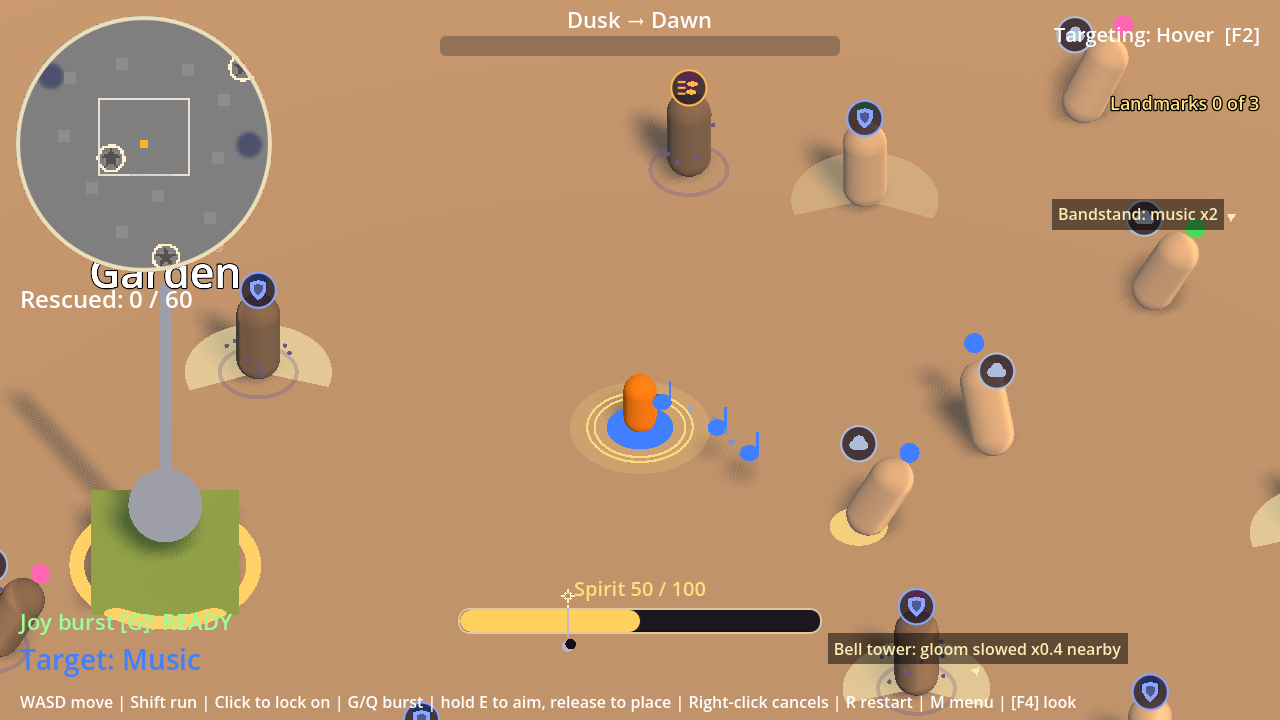
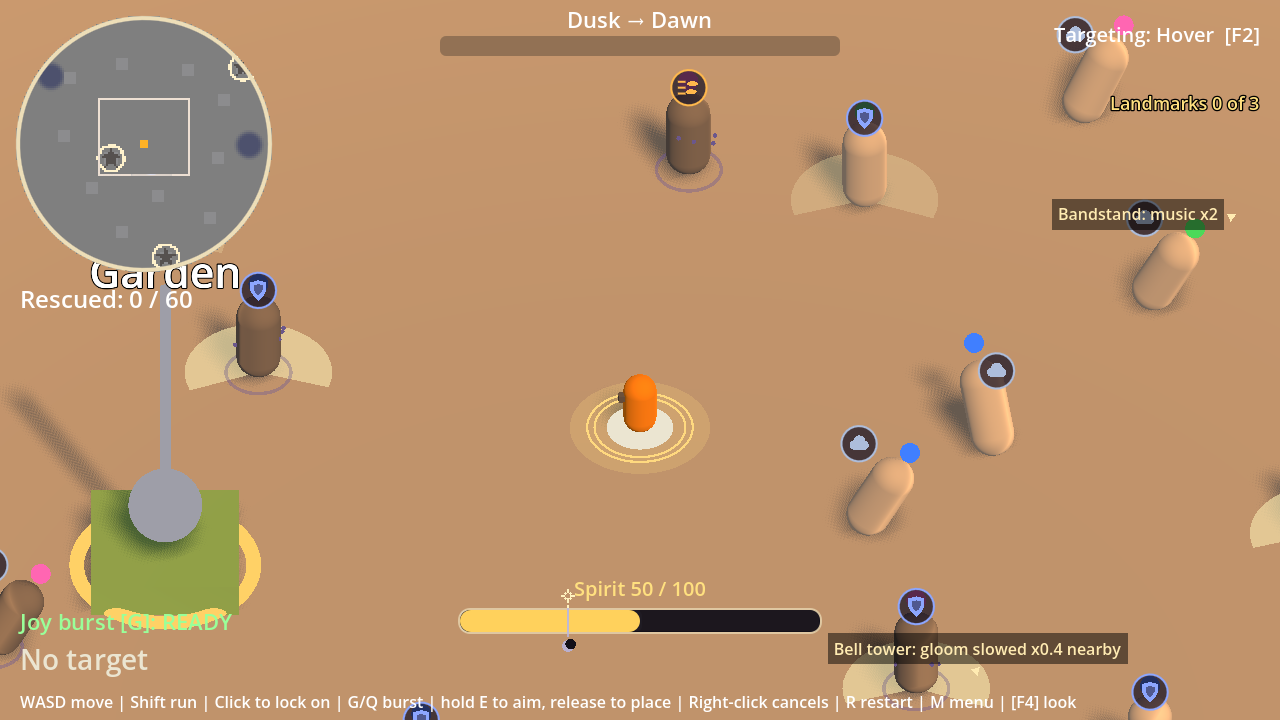
0.3.1 fix pass: mist seams (integer hash noise), bolder storm cloud, props and bunting in play view
Refs #40 Refs #41 Refs #42

diff --git a/tools/checkpoint_shots.py b/tools/checkpoint_shots.py
@@ -70,7 +70,8 @@ VIEWS_R24 = ["fight_strain", "fight_gap_closeup", "fight_strain_closeup", "fight
              "walk_grey", "walk_joy", "walk_dimmed", "walk_player", "run_player", "walk_crowd"]
 # Graphics checkpoint 7 (--set checkpoint7): calm opening, mid-night inside and outside the zone, a push, dawn.
 # 0.3.1 adds the play-zoom views (full frame at zoom 19.5): calm opening, mid-night inside and outside the zone, a push.
-VIEWS_PLAY = ["play_calm_opening", "play_midnight_inside_zone", "play_midnight_outside_zone", "play_push_in_progress"]
+VIEWS_PLAY = ["play_calm_opening", "play_midnight_inside_zone", "play_midnight_outside_zone", "play_push_in_progress",
+              "play_props_bunting"]
 VIEWS_C7 = (["calm_opening", "midnight_inside_zone", "midnight_outside_zone", "push_in_progress", "push_closeup"]
             + VIEWS_PLAY + ["dawn"])
 EXPECTED_C7 = (["contact_sheet.png", "contact_sheet_compare.png", "play_sheet.png"]

diff --git a/SOURCE_MAP.md b/SOURCE_MAP.md
@@ -170,13 +170,13 @@ extends Node3D | 1 const | Round 22: the world marks for the burst (G/Q), drawn 
 - L88 `streak_count() -> int`
 
 ### scripts/config.gd (Config)
-extends ConfigBase | 376 const | Round 19 onward: tuning values and the tiny pure helpers. Older constants live in config_base.gd (ConfigBas...
-- L634 `static intro_on() -> bool` - True when the layered introduction (round 13b) is on: always in the game, never under automated tests, unle...
-- L642 `static tides_on() -> bool` - Round 25: the gloom tides run in the game and not under automated tests (like the intro), so the older scen...
-- L649 `static multiplier(element: int, affinity: int) -> float` - Returns how much a hit with `element` is multiplied when the person has `affinity`.
-- L658 `static falloff(distance: float) -> float` - Returns the strength of a hit at `distance` metres: 1.0 up close, falling to FALLOFF_MIN far away.
-- L668 `static gloom_level(g: float) -> int` - Returns the visible grey level (0 light, 1 grey, 2 dimmed) for a hidden gloom value.
-- L679 `static is_automated_test() -> bool` - True when the game is running under the automated tests (tools/run_tests.py): the POSITIVEFPS_TEST=1 enviro...
+extends ConfigBase | 377 const | Round 19 onward: tuning values and the tiny pure helpers. Older constants live in config_base.gd (ConfigBas...
+- L635 `static intro_on() -> bool` - True when the layered introduction (round 13b) is on: always in the game, never under automated tests, unle...
+- L643 `static tides_on() -> bool` - Round 25: the gloom tides run in the game and not under automated tests (like the intro), so the older scen...
+- L650 `static multiplier(element: int, affinity: int) -> float` - Returns how much a hit with `element` is multiplied when the person has `affinity`.
+- L659 `static falloff(distance: float) -> float` - Returns the strength of a hit at `distance` metres: 1.0 up close, falling to FALLOFF_MIN far away.
+- L669 `static gloom_level(g: float) -> int` - Returns the visible grey level (0 light, 1 grey, 2 dimmed) for a hidden gloom value.
+- L680 `static is_automated_test() -> bool` - True when the game is running under the automated tests (tools/run_tests.py): the POSITIVEFPS_TEST=1 enviro...
 
 ### scripts/config_base.gd (ConfigBase)
 extends RefCounted | 370 const | All tuning values for the prototype live here. Change a number and run the game to feel the difference.
@@ -1052,7 +1052,7 @@ extends Control | 0 const | Checkpoint 5: the wobble alert. A drained rescued pe
 - looks_base_test (tests/looks_base_test.gd): 6 tests
 - looks_checkpoint5_test (tests/looks_checkpoint5_test.gd): 18 tests
 - looks_checkpoint6_test (tests/looks_checkpoint6_test.gd): 11 tests
-- looks_checkpoint7_ground_test (tests/looks_checkpoint7_ground_test.gd): 9 tests
+- looks_checkpoint7_ground_test (tests/looks_checkpoint7_ground_test.gd): 10 tests
 - looks_cues_test (tests/looks_cues_test.gd): 8 tests
 - looks_round19_test (tests/looks_round19_test.gd): 10 tests
 - looks_round20_extra_test (tests/looks_round20_extra_test.gd): 3 tests
@@ -1089,7 +1089,7 @@ extends Control | 0 const | Checkpoint 5: the wobble alert. A drained rescued pe
 - stage_change_test (tests/stage_change_test.gd): 4 tests
 - stagger_test (tests/stagger_test.gd): 3 tests
 - stretch_safety_test (tests/stretch_safety_test.gd): 7 tests
-- style_scenery_test (tests/style_scenery_test.gd): 15 tests
+- style_scenery_test (tests/style_scenery_test.gd): 16 tests
 - targeting_test (tests/targeting_test.gd): 11 tests
 - topdown_crowd_test (tests/topdown_crowd_test.gd): 8 tests
 - topdown_mode_test (tests/topdown_mode_test.gd): 10 tests
